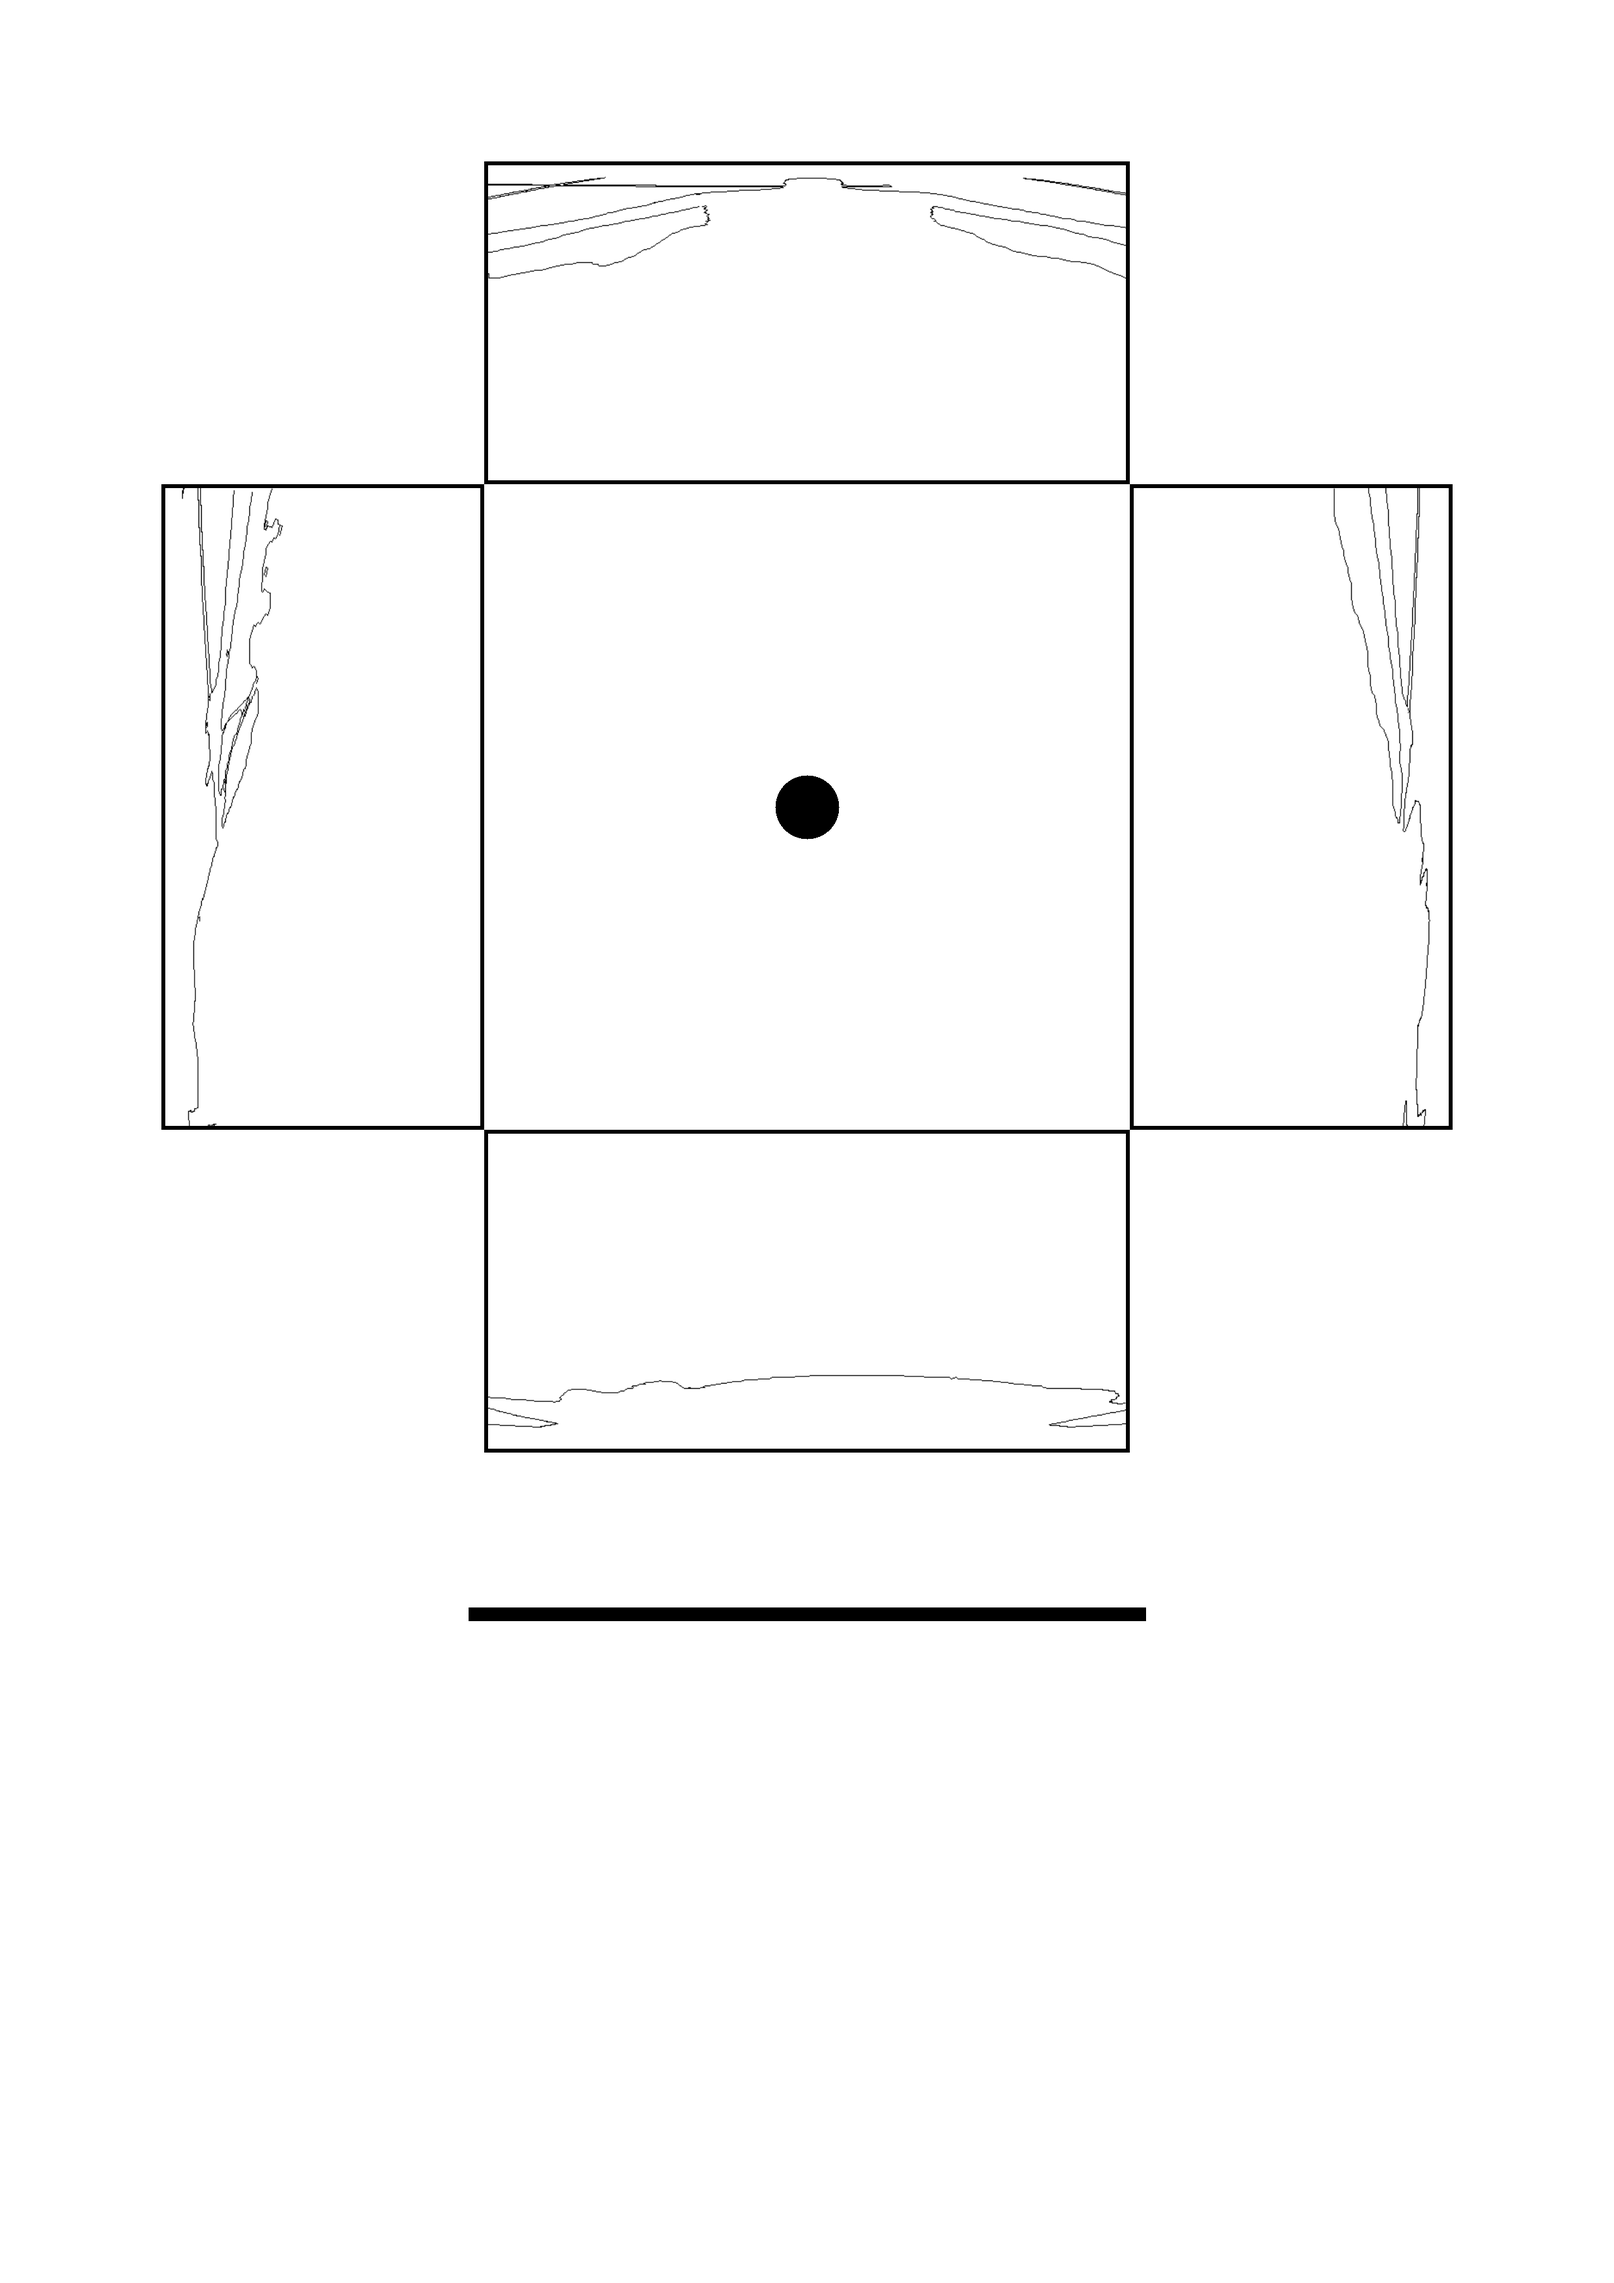
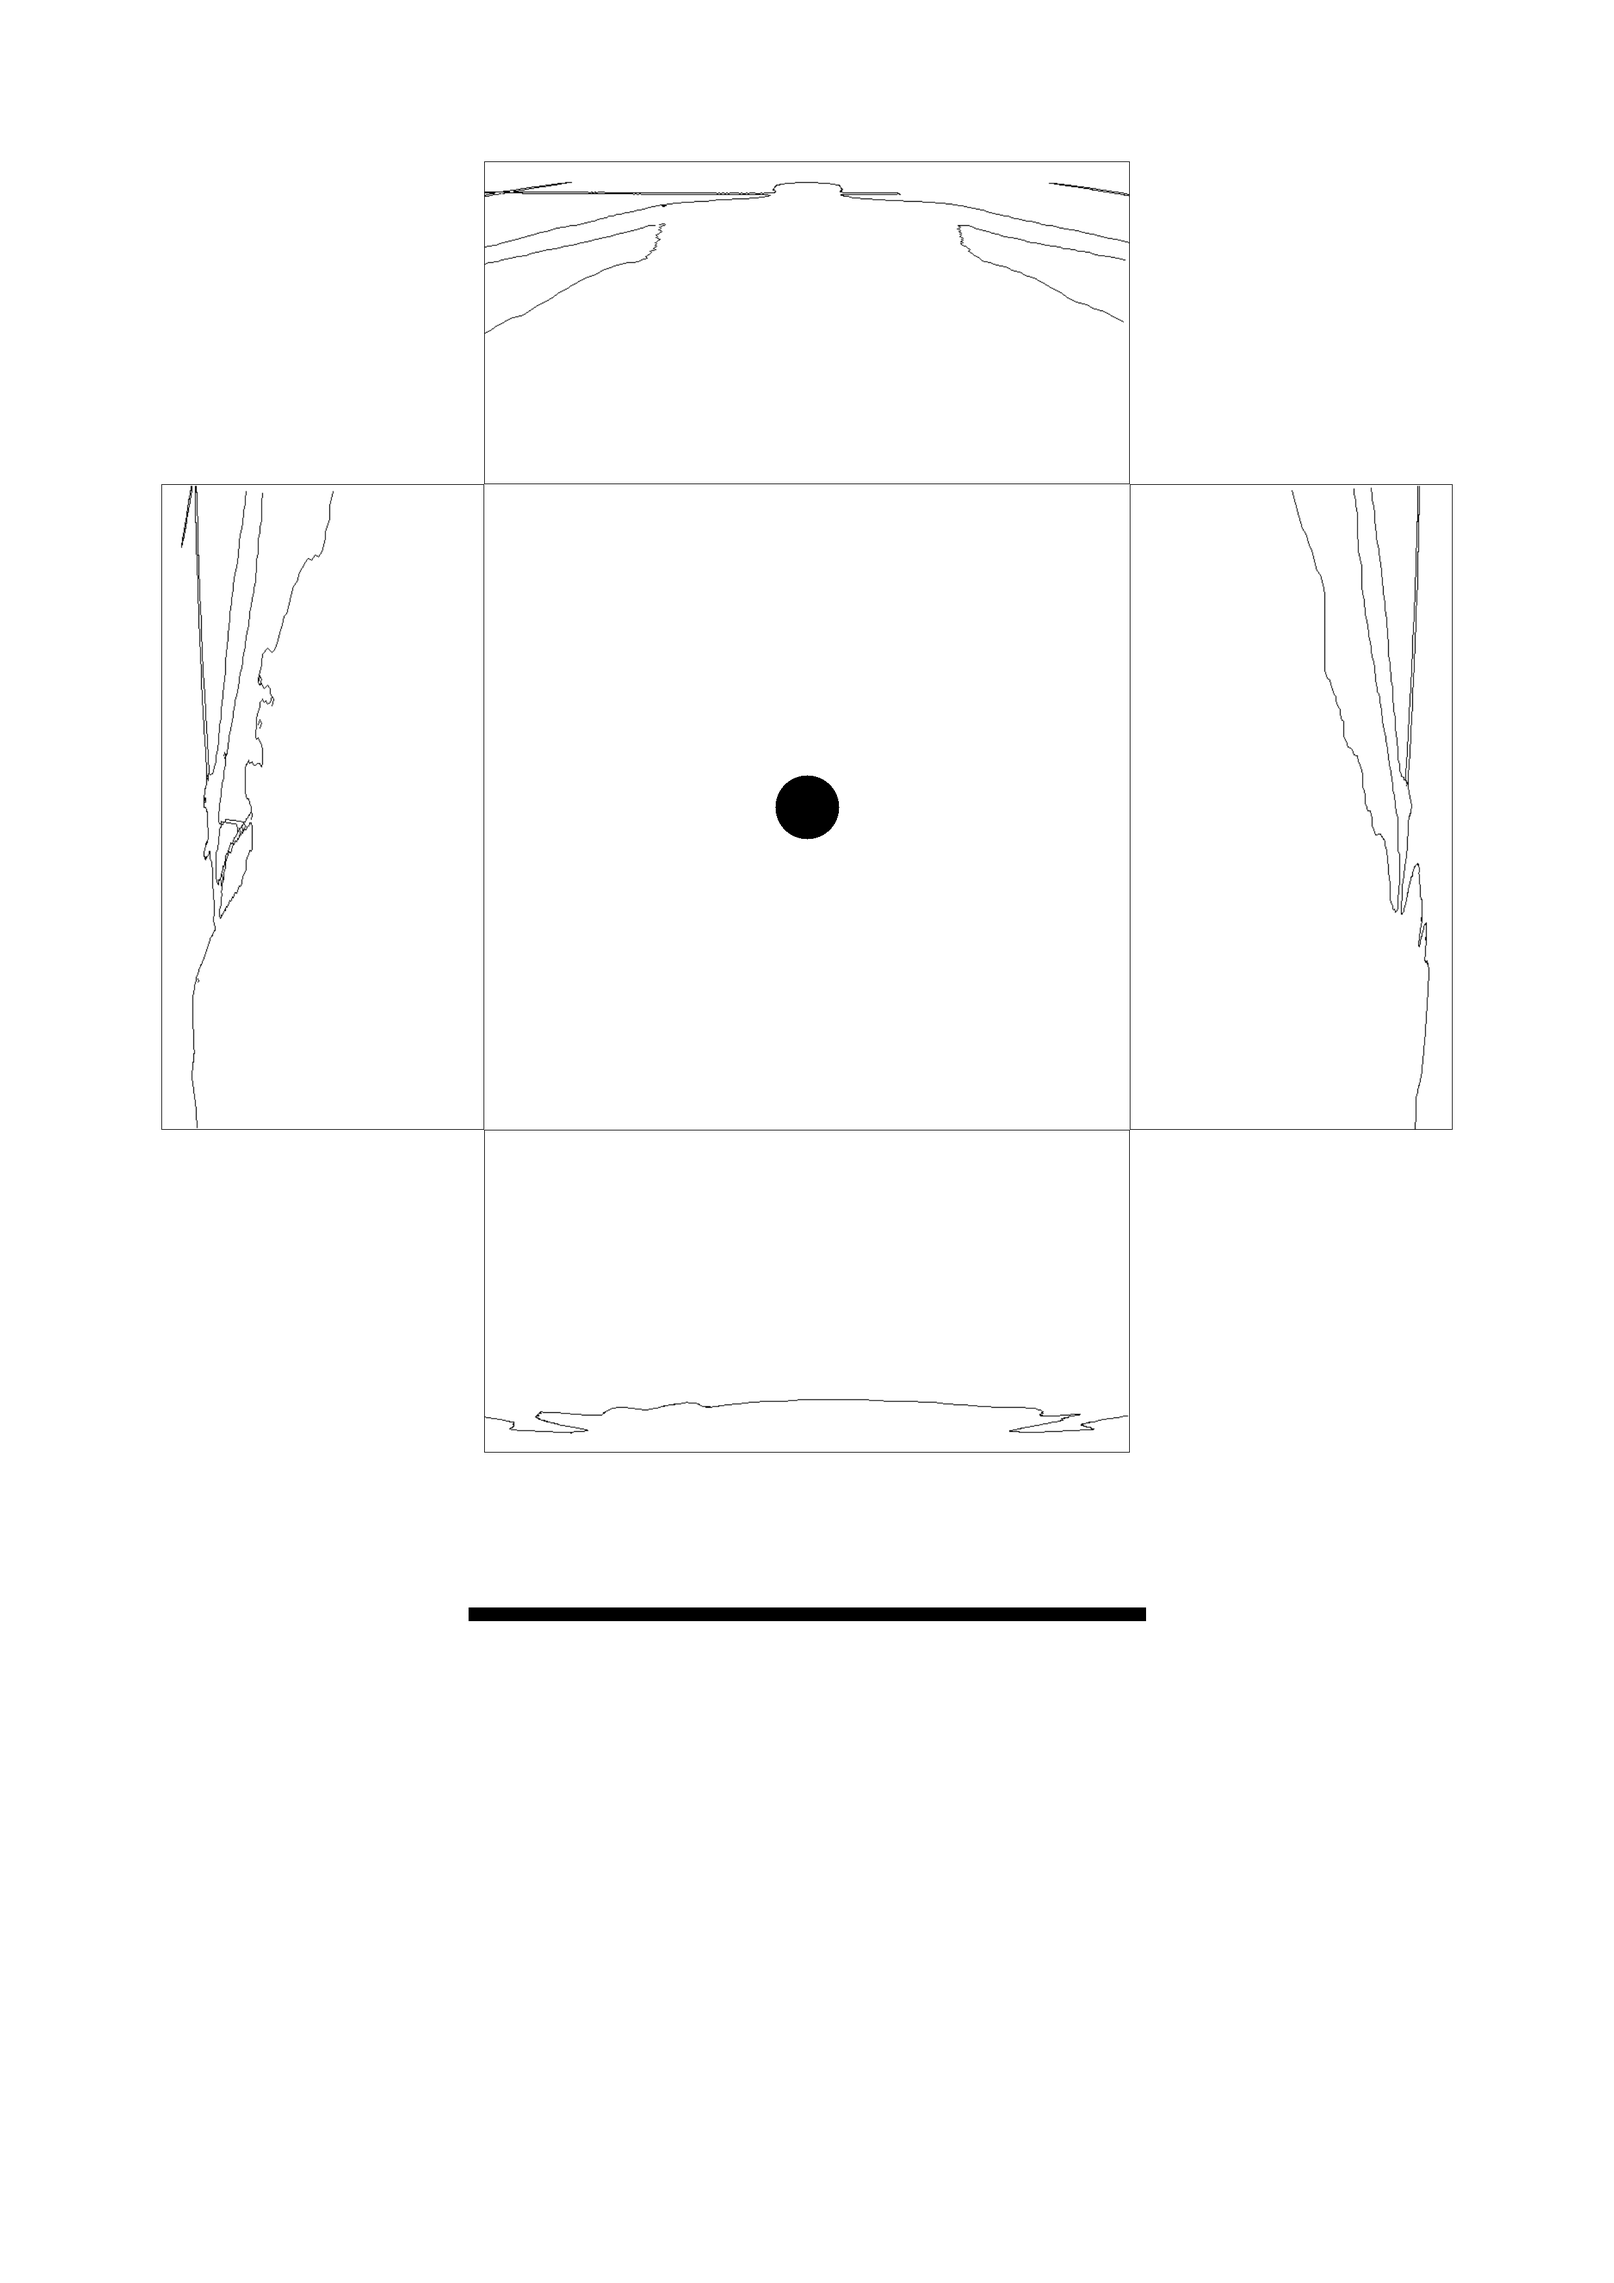
fix: input and output location

diff --git a/python/main.py b/python/main.py
@@ -16,7 +16,7 @@ COLOR = {
     WallType.WEST: (255, 0, 255), # magenta
 }
 
-image = cv2.imread(FILE_NAME, cv2.IMREAD_UNCHANGED)
+image = cv2.imread("input/"+FILE_NAME, cv2.IMREAD_UNCHANGED)
 image = cv2.resize(image, (480, 480))
 image_alpha = image[:, :, 3]
 _, image_bin = cv2.threshold(image_alpha, 126, 255, cv2.THRESH_BINARY)
@@ -53,7 +53,7 @@ def debug_carvings(carvings, title=""):
 
 def place_images_on_a4(base_wall, north_wall, south_wall, east_wall, west_wall):
     paper = np.ones((PAPER_H, PAPER_W, 3), dtype=np.uint8) * 255
-    outline_thickness = 10
+    outline_thickness = 1
     padding = int(PAPER_W * 0.1)
     w = PAPER_W - padding*2
     unit = int(w/4)
@@ -128,8 +128,8 @@ def place_box(x=width/2, y=height/2):
 
     paper = place_images_on_a4(base_wall, north_wall, south_wall, east_wall, west_wall)
     cv2.imshow("Paper", cv2.resize(paper, (int(PAPER_W/4), int(PAPER_H/4))))
-    cv2.imwrite(FILE_NAME, paper)
-    print("Saved to " + FILE_NAME)
+    cv2.imwrite("output/"+FILE_NAME, paper)
+    print("Saved to " + "output/" + FILE_NAME)
 
 place_box()
 
